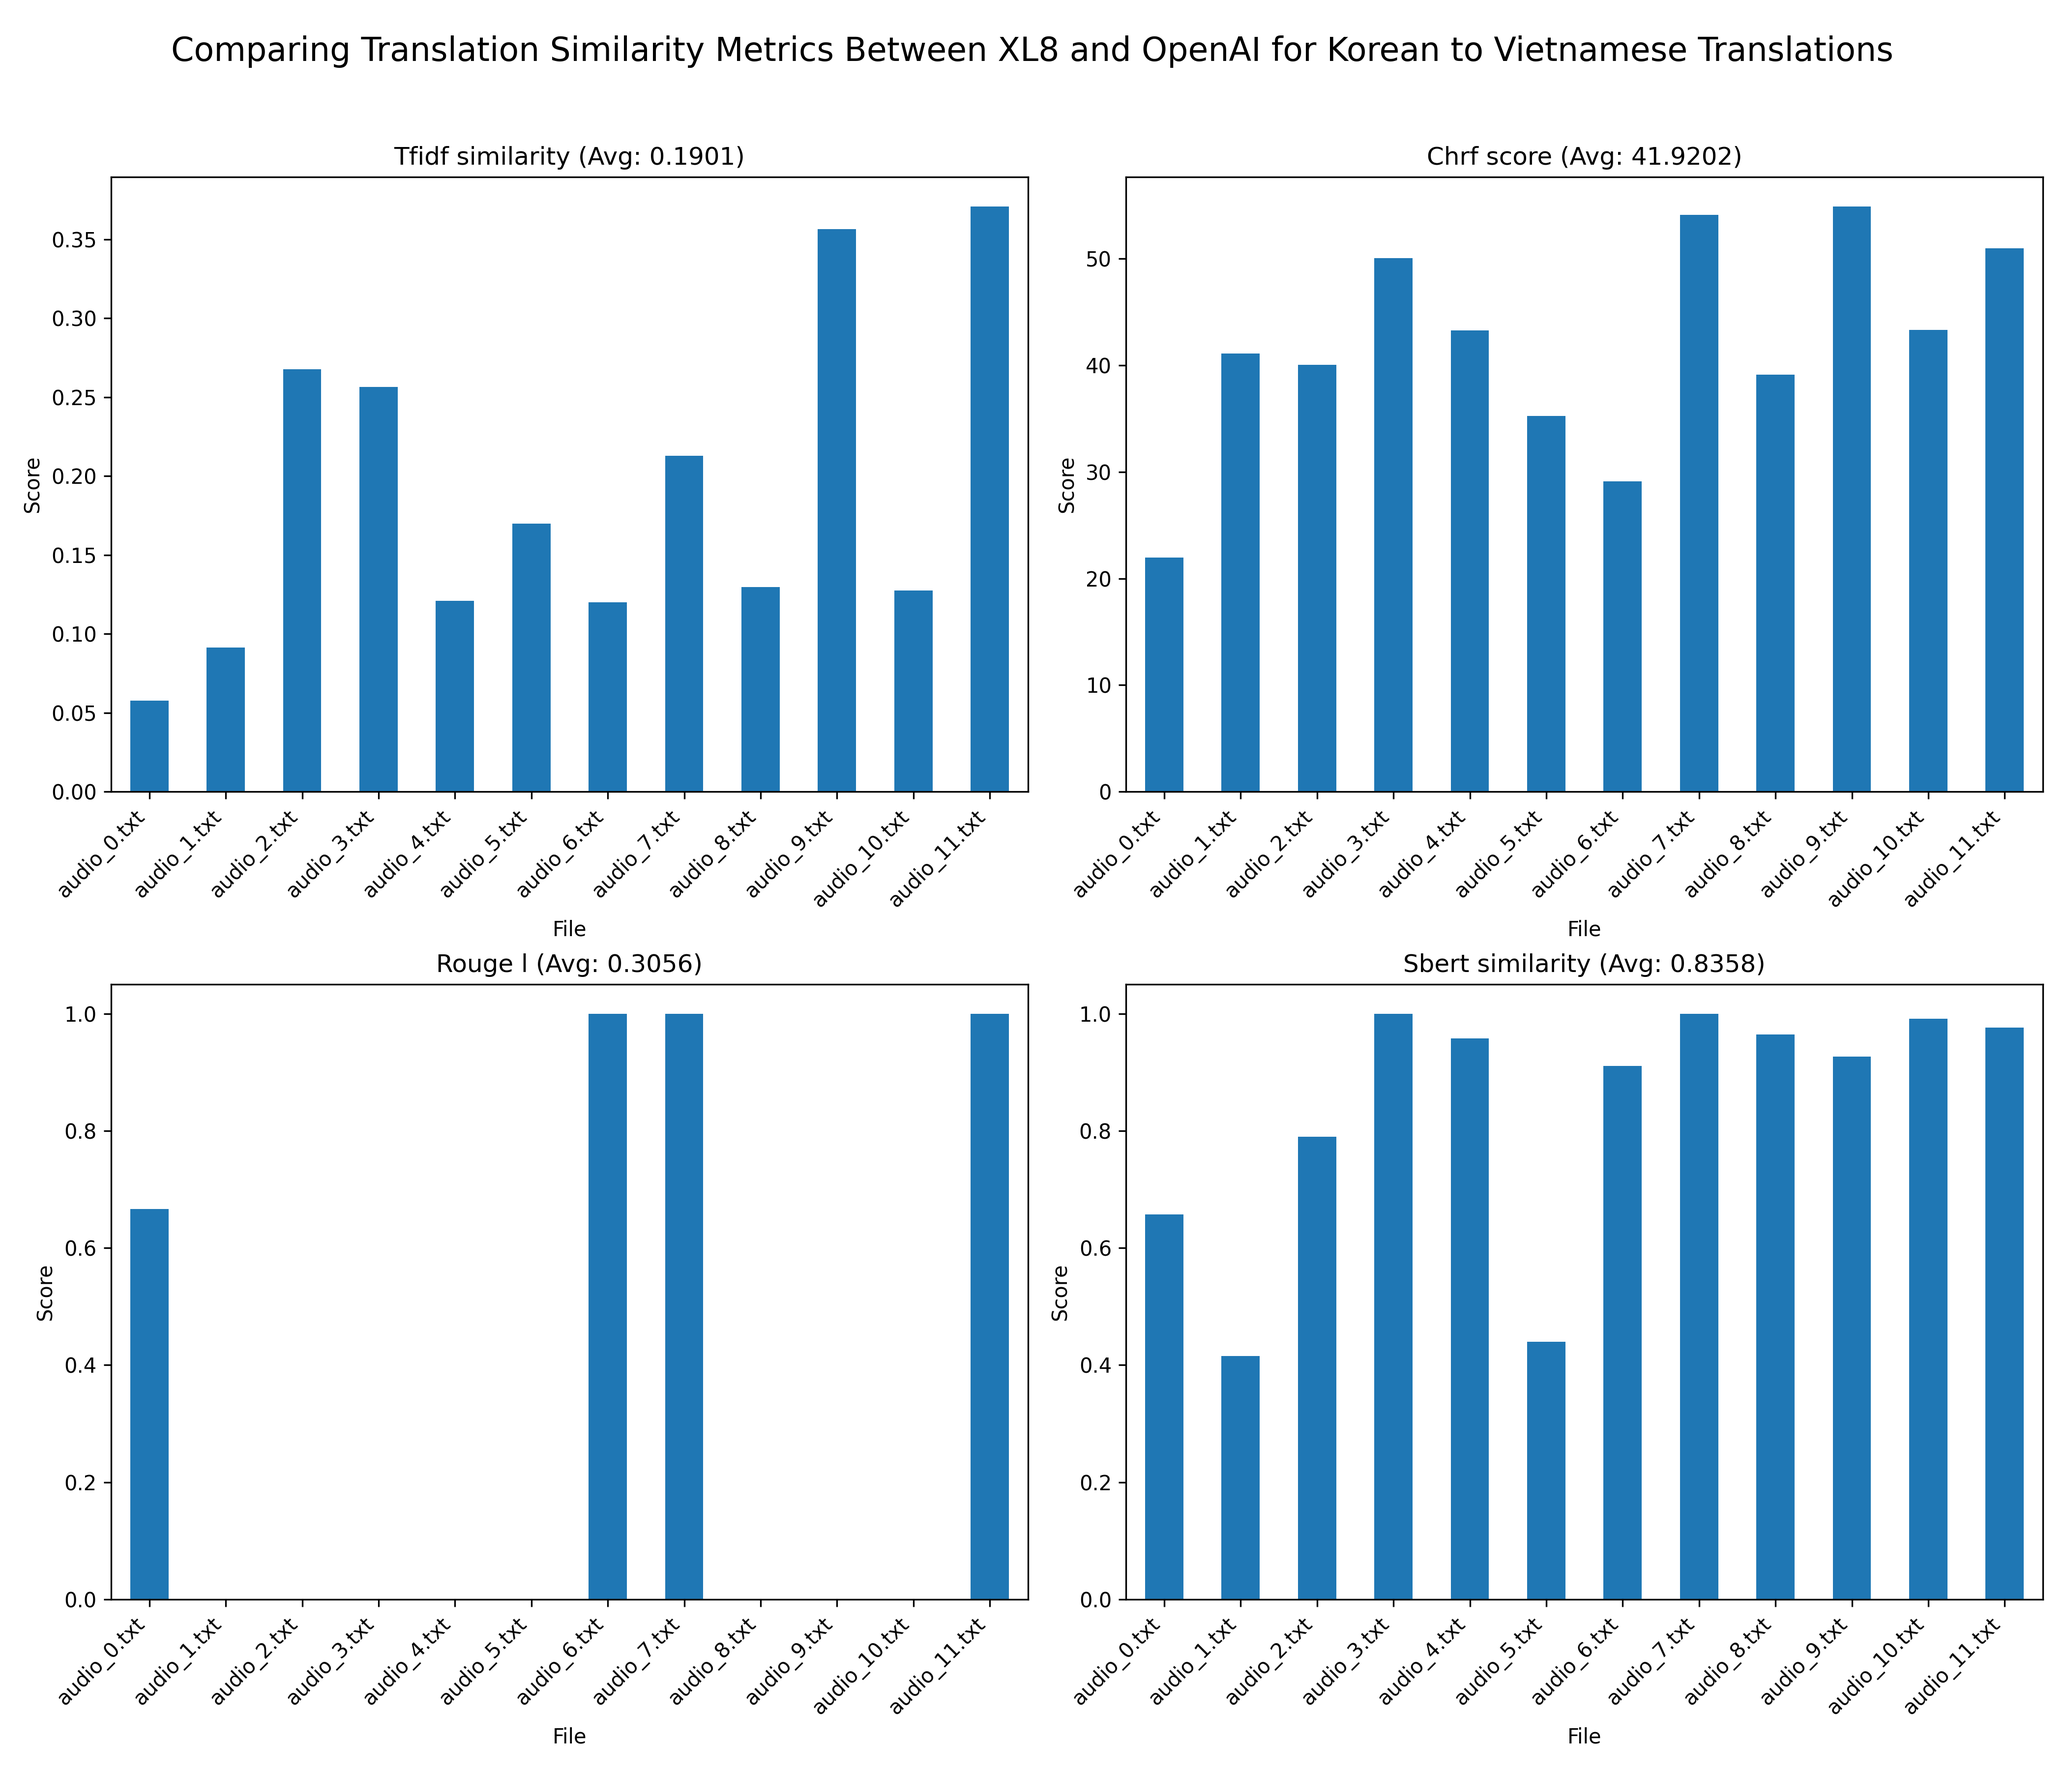
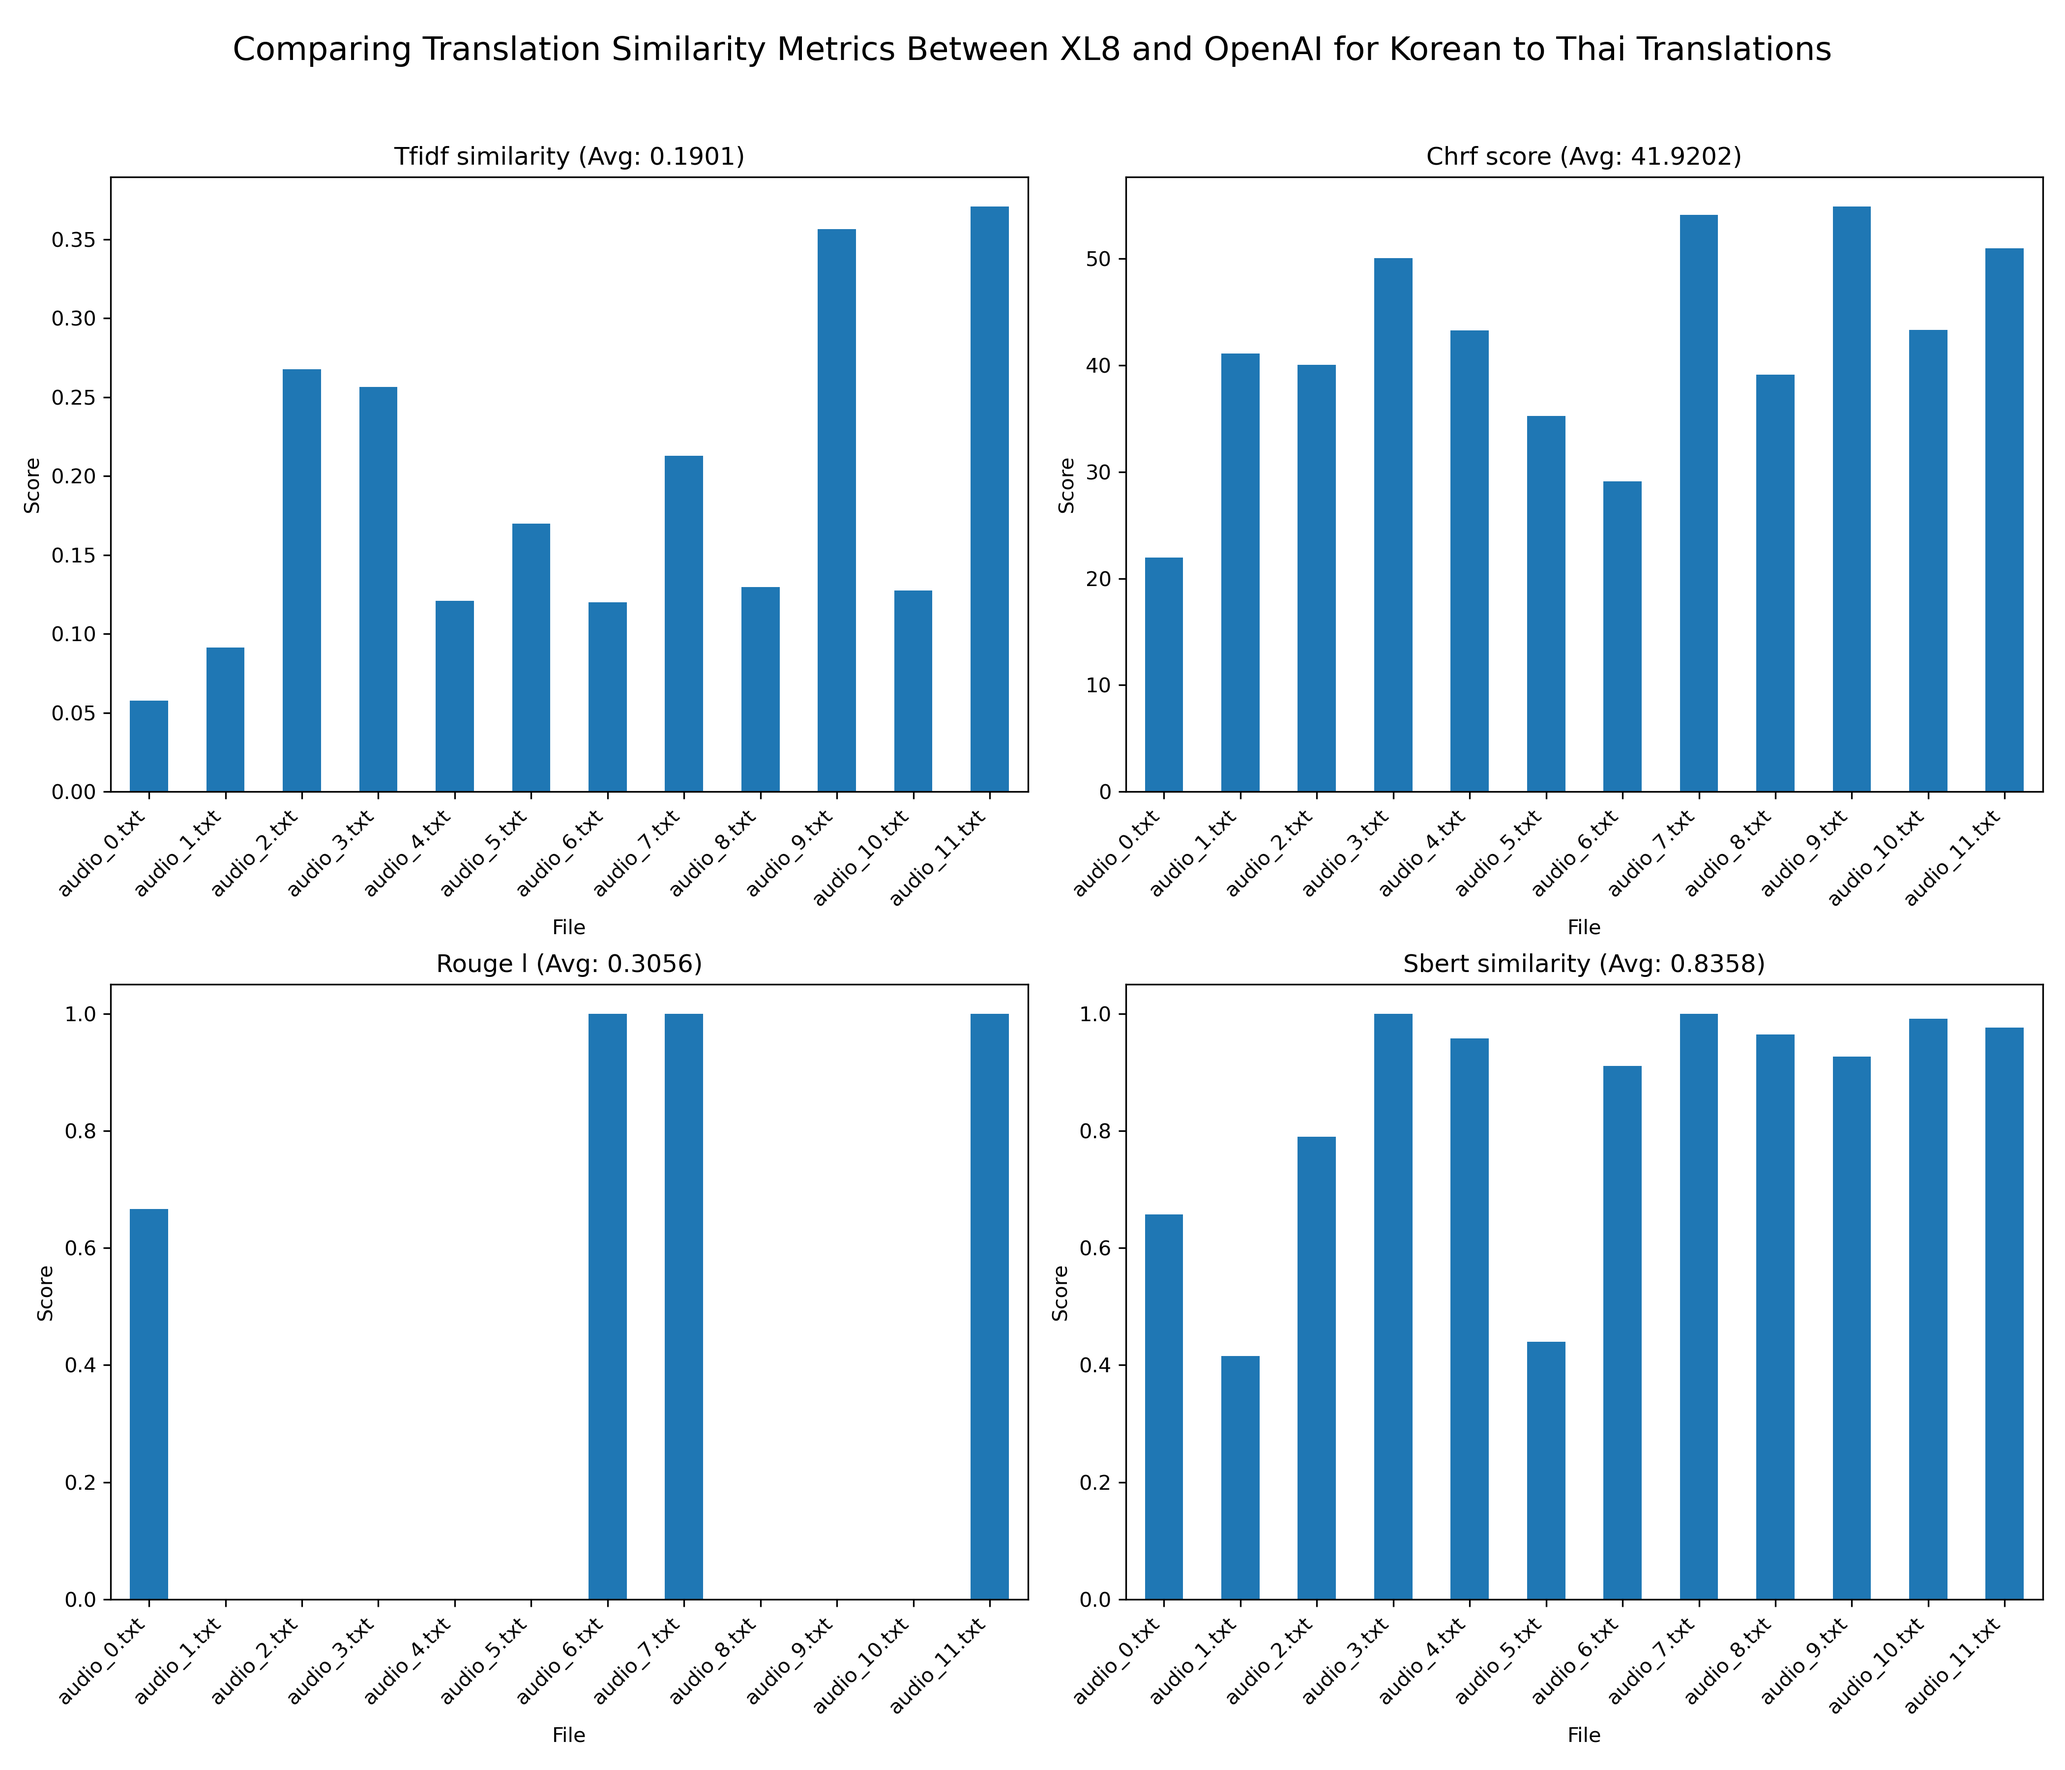
docs: update figure

diff --git a/benchmarking/visualize_translate_benchmark_data.py b/benchmarking/visualize_translate_benchmark_data.py
@@ -24,7 +24,7 @@ def visualize_and_save_metrics(df, output_folder):
     metrics = ["tfidf_similarity", "chrf_score", "rouge_l", "sbert_similarity"]
     num_metrics = len(metrics)
     fig, axes = plt.subplots(2, 2, figsize=(14, 12))  # 2 rows, 2 columns grid
-    fig.suptitle("Comparing Translation Similarity Metrics Between XL8 and OpenAI for Korean to Vietnamese Translations", fontsize=16)
+    fig.suptitle("Comparing Translation Similarity Metrics Between XL8 and OpenAI for Korean to Thai Translations", fontsize=16)
 
     # Plot each metric
     averages = {}
@@ -46,7 +46,7 @@ def visualize_and_save_metrics(df, output_folder):
     plt.subplots_adjust(top=0.9)  # Make room for the main title
 
     # Save the output image
-    output_path = os.path.join(output_folder, "metrics_visualization_vi.png")
+    output_path = os.path.join(output_folder, "metrics_visualization_th.png")
     plt.savefig(output_path, dpi=300)
     print(f"Visualization saved to: {output_path}")
 
@@ -59,7 +59,7 @@ def visualize_and_save_metrics(df, output_folder):
 
 # Main Execution
 if __name__ == "__main__":
-    metrics_file = "metrics_results_vi.json"  # Path to the JSON file
+    metrics_file = "metrics_results_th.json"  # Path to the JSON file
     results_folder = "./results"  # Folder to save the visualization
 
     # Load metrics into a DataFrame
